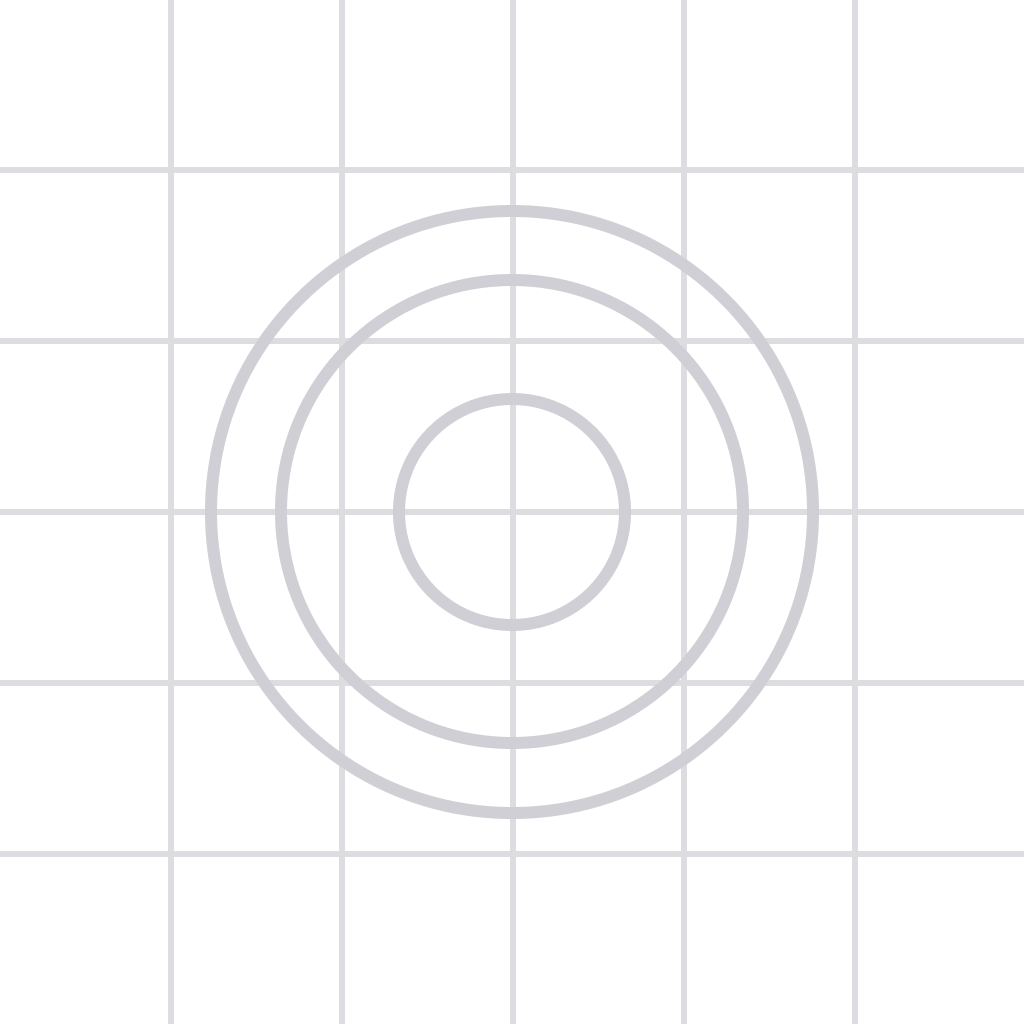
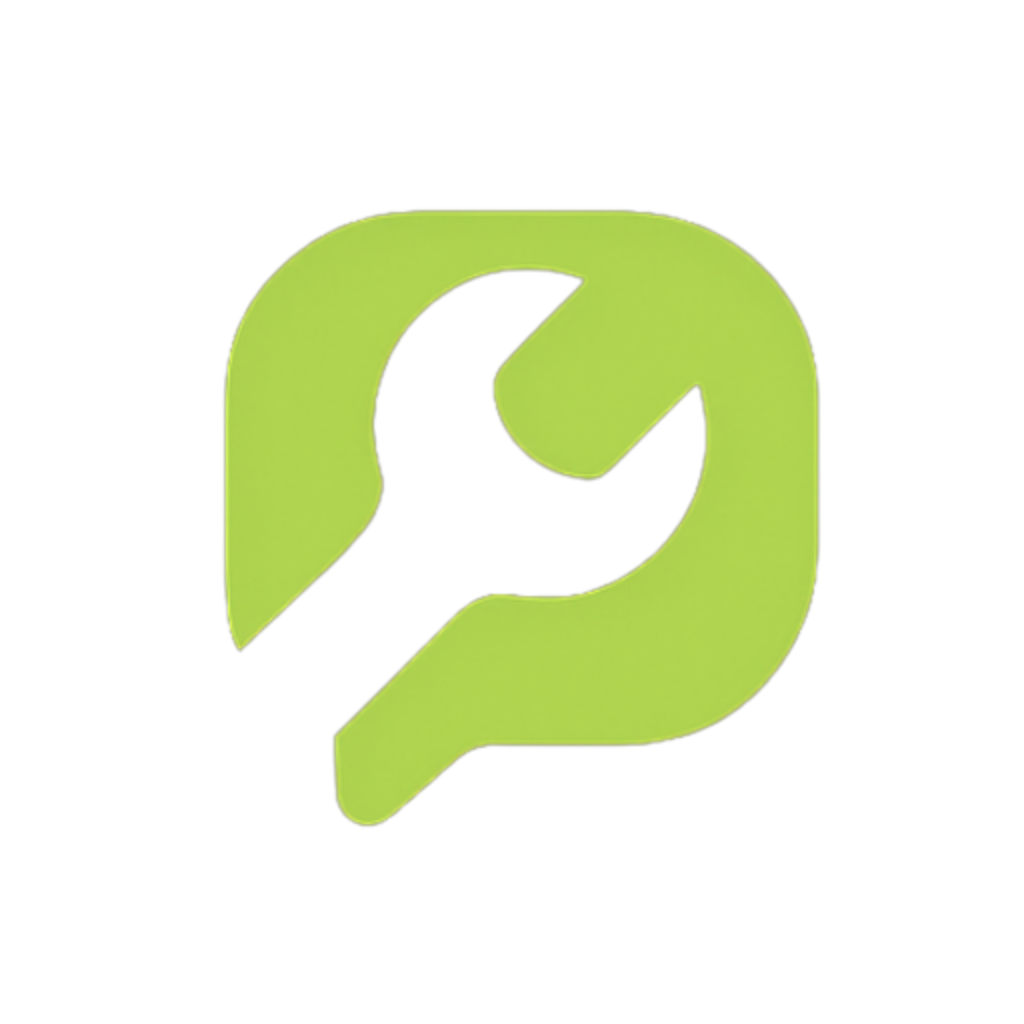
Fix Google Sign-In (Error 10) & Enhance UI with Animated Splash
- Validated Google Cloud Console configuration (Support Email was missing)
- Confirmed correct SHA-1 fingerprint for EAS preview builds
- Added detailed troubleshooting guide in GOOGLE_SIGNIN_ROZWIAZANIE.md
- Implemented new AnimatedSplash component in RootLayout
- Updated app icons and splash screen configuration in app.json

This resolves the Google Sign-In 'DEVELOPER_ERROR' (code 10) by ensuring cloud configuration matches the app signature.

Changed region(s): [[0.0, 0.0, 1.0, 1.0], [0.4062, 0.4062, 0.4375, 0.4375]]

diff --git a/components/AnimatedSplash.tsx b/components/AnimatedSplash.tsx
@@ -1,0 +1,93 @@
+import * as SplashScreen from 'expo-splash-screen';
+import React, { useCallback, useEffect } from 'react';
+import { Image, StyleSheet, View } from 'react-native';
+import Animated, {
+  Easing,
+  runOnJS,
+  useAnimatedStyle,
+  useSharedValue,
+  withDelay,
+  withSequence,
+  withTiming,
+} from 'react-native-reanimated';
+
+// Prevent native splash from auto-hiding
+SplashScreen.preventAutoHideAsync();
+
+interface AnimatedSplashProps {
+  isReady: boolean;
+  onAnimationComplete: () => void;
+}
+
+export function AnimatedSplash({ isReady, onAnimationComplete }: AnimatedSplashProps) {
+  const scale = useSharedValue(0.3);
+  const opacity = useSharedValue(0);
+  const fadeOut = useSharedValue(1);
+
+  const handleAnimationDone = useCallback(() => {
+    onAnimationComplete();
+  }, [onAnimationComplete]);
+
+  useEffect(() => {
+    if (!isReady) return;
+
+    // Hide native splash as soon as JS is ready - our animated splash takes over
+    SplashScreen.hideAsync();
+
+    // Start the wordmark animation:
+    // 1. Fade in + scale from 0.3 to 1.0 (800ms)
+    // 2. Hold for 400ms
+    // 3. Fade out (300ms)
+    opacity.value = withTiming(1, { duration: 300, easing: Easing.out(Easing.quad) });
+
+    scale.value = withTiming(1, {
+      duration: 800,
+      easing: Easing.out(Easing.back(1.2)),
+    });
+
+    // After scale + hold, fade out and signal completion
+    fadeOut.value = withDelay(
+      1200,
+      withTiming(0, { duration: 300, easing: Easing.in(Easing.quad) }, (finished) => {
+        if (finished) {
+          runOnJS(handleAnimationDone)();
+        }
+      })
+    );
+  }, [isReady]);
+
+  const animatedStyle = useAnimatedStyle(() => ({
+    transform: [{ scale: scale.value }],
+    opacity: opacity.value * fadeOut.value,
+  }));
+
+  return (
+    <View style={styles.container}>
+      <Animated.View style={[styles.imageContainer, animatedStyle]}>
+        <Image
+          source={require('../assets/images/wordmark.png')}
+          style={styles.wordmark}
+          resizeMode="contain"
+        />
+      </Animated.View>
+    </View>
+  );
+}
+
+const styles = StyleSheet.create({
+  container: {
+    ...StyleSheet.absoluteFillObject,
+    backgroundColor: '#000000',
+    justifyContent: 'center',
+    alignItems: 'center',
+    zIndex: 999,
+  },
+  imageContainer: {
+    justifyContent: 'center',
+    alignItems: 'center',
+  },
+  wordmark: {
+    width: 280,
+    height: 80,
+  },
+});

diff --git a/app/_layout.tsx b/app/_layout.tsx
@@ -1,3 +1,4 @@
+import { AnimatedSplash } from "@/components/AnimatedSplash";
 import { ErrorBoundary } from "@/components/ErrorBoundary";
 import { UserMenu } from "@/components/UserMenu";
 import { AppProvider } from "@/context/AppContext";
@@ -5,13 +6,14 @@ import { auth, db } from "@/services/firebase";
 import { Stack, usePathname, useRouter } from "expo-router";
 import { onAuthStateChanged } from "firebase/auth";
 import { doc, getDoc } from "firebase/firestore";
-import React, { useEffect, useRef, useState } from "react";
-import { ActivityIndicator, View } from "react-native";
+import React, { useCallback, useEffect, useRef, useState } from "react";
+import { View } from "react-native";
 
 export default function RootLayout() {
   const router = useRouter();
   const pathname = usePathname();
   const [isLoading, setIsLoading] = useState(true);
+  const [showSplash, setShowSplash] = useState(true);
   const [isMounted, setIsMounted] = useState(false);
   const navigationTimeoutRef = useRef<NodeJS.Timeout | null>(null);
 
@@ -98,10 +100,18 @@ export default function RootLayout() {
     return () => unsub();
   }, [pathname, router, isMounted]);
 
-  if (isLoading) {
+  const handleSplashComplete = useCallback(() => {
+    setShowSplash(false);
+  }, []);
+
+  // Show animated splash while loading auth state
+  if (showSplash) {
     return (
-      <View style={{ flex: 1, justifyContent: "center", alignItems: "center", backgroundColor: "#0f172a" }}>
-        <ActivityIndicator color="#38bdf8" />
+      <View style={{ flex: 1, backgroundColor: '#000000' }}>
+        <AnimatedSplash
+          isReady={!isLoading}
+          onAnimationComplete={handleSplashComplete}
+        />
       </View>
     );
   }

diff --git a/GOOGLE_SIGNIN_ROZWIAZANIE.md b/GOOGLE_SIGNIN_ROZWIAZANIE.md
@@ -1,0 +1,238 @@
+# Google Sign-In - Rozwiązanie problemu DEVELOPER_ERROR code 10
+
+## 📋 Podsumowanie problemu
+
+**Główny błąd:** `DEVELOPER_ERROR code 10` przy próbie logowania przez Google Sign-In w aplikacji React Native (Expo) z Firebase Authentication.
+
+**Objawy:**
+- Okno wyboru konta Google otwierało się, ale po wybraniu konta zamykało się bez rejestracji
+- Później nawet okno wyboru konta przestało się otwierać
+- Rejestracja email/password działała poprawnie
+- Logi pokazywały: `[GoogleSignIn] Error code: 10` oraz `[GoogleSignIn] Error: DEVELOPER_ERROR`
+
+---
+
+## 🔍 Proces debugowania
+
+### 1. Sprawdzenie podstawowej konfiguracji
+- ✅ Firebase Authentication - Google provider włączony
+- ✅ `webClientId` w kodzie poprawny (typ Web, nie Android)
+- ✅ Package name: `com.brainiac.repairmate` 
+- ✅ Plugin `@react-native-google-signin/google-signin` dodany do `app.json`
+
+### 2. Weryfikacja SHA-1 fingerprints
+**Problem:** SHA-1 z keystore nie był zsynchronizowany między:
+- EAS Credentials (Expo)
+- Firebase Console
+- Google Cloud Console
+- Plik `google-services.json` w projekcie
+
+**Odkrycie:**
+```bash
+eas credentials
+```
+Pokazywało: `SHA1 Fingerprint: 5D:C7:C7:14:D3:C6:75:43:41:7B:52:98:96:4E:BB:83:E9:2F:1F:20`
+
+Ten SHA-1 musiał być dodany do:
+1. Firebase Console → Project Settings → Your apps → Android app → SHA certificate fingerprints
+2. Google Cloud Console automatycznie tworzy Android OAuth Client z tym SHA-1
+3. Pobranie zaktualizowanego `google-services.json` z Firebase Console
+
+### 3. Poprawki w kodzie
+
+#### a) `services/firebase.ts`
+**Problem:** Lazy initialization z `Proxy` powodowała problemy z `AsyncStorage` persistence.
+
+**Rozwiązanie:** Bezpośrednia inicjalizacja
+```typescript
+const app = initializeApp(firebaseConfig);
+export const auth = initializeAuth(app, {
+  persistence: getReactNativePersistence(AsyncStorage),
+});
+export const db = getFirestore(app);
+```
+
+#### b) `components/AuthForm.tsx`
+**Problem 1:** Brak tworzenia dokumentu użytkownika w Firestore po Google Sign-In.
+
+**Rozwiązanie:** Dodanie logiki tworzenia/aktualizacji dokumentu po `signInWithCredential`.
+
+**Problem 2:** Niepoprawna struktura danych z `GoogleSignin.signIn()`.
+
+**Rozwiązanie:** Zmiana z `userInfo.idToken` na `response.data.idToken`
+```typescript
+const response = await GoogleSignin.signIn();
+if (!response || response.type !== 'success') {
+  throw new Error(`Google Sign-In failed with type: ${response?.type || 'undefined'}`);
+}
+const userInfo = response.data;
+const credential = GoogleAuthProvider.credential(userInfo.idToken);
+```
+
+**Problem 3:** Brak `scopes` w konfiguracji.
+
+**Rozwiązanie:** Dodanie scopes do `GoogleSignin.configure()`
+```typescript
+GoogleSignin.configure({
+  webClientId: '432126526994-qf7v8bthqohpvik7s51utjd7io8jin3m.apps.googleusercontent.com',
+  offlineAccess: false,
+  scopes: ['profile', 'email'],
+});
+```
+
+### 4. Konfiguracja Google Cloud Console
+
+#### OAuth Consent Screen
+- **Publishing status:** Testing (nie Production!)
+- **Test users:** Dodanie emaili użytkowników testowych (np. `[email redacted]`)
+
+#### APIs włączone
+- ✅ Google+ API (`https://console.cloud.google.com/apis/library/plus.googleapis.com`)
+- ✅ Identity Toolkit API (automatycznie dla Firebase)
+
+#### OAuth 2.0 Client IDs
+Wymagane **OBA** typy:
+1. **Web Application** - webClientId używany w kodzie
+2. **Android** - z SHA-1 fingerprint z keystore
+
+---
+
+## ✅ OSTATECZNE ROZWIĄZANIE
+
+### Co było głównym problemem?
+
+**EAS Credentials generowało nowe SHA-1 przy każdym buildzie**, które nie było nigdzie zarejestrowane!
+
+### Rozwiązanie krok po kroku:
+
+1. **Sprawdzenie aktualnego SHA-1 w EAS:**
+   ```bash
+   eas credentials
+   ```
+   Wybierz: Android → Keystore → View details
+
+2. **Dodanie SHA-1 do Firebase Console:**
+   - Firebase Console → Project Settings → General
+   - Scroll down do "Your apps" → Android app
+   - Dodaj SHA-1 w sekcji "SHA certificate fingerprints"
+
+3. **Weryfikacja w Google Cloud Console:**
+   - https://console.cloud.google.com/apis/credentials
+   - Sprawdź czy pojawił się nowy Android OAuth Client z tym SHA-1
+
+4. **Pobranie zaktualizowanego `google-services.json`:**
+   - Firebase Console → Project Settings → General
+   - W sekcji Android app kliknij "Download google-services.json"
+   - **WAŻNE:** Nadpisz stary plik w projekcie!
+
+5. **Commit zmian i nowy build:**
+   ```bash
+   git add google-services.json
+   git commit -m "Update google-services.json with correct SHA-1"
+   eas build --platform android --profile preview --clear-cache
+   ```
+
+6. **Instalacja i test:**
+   - Zainstaluj nowy APK
+   - Test Google Sign-In
+
+---
+
+## 📝 Pliki zmodyfikowane w projekcie
+
+### Commity w kolejności:
+1. `a35870f` - Fix AsyncStorage persistence
+2. `eb107ec` - Fix auth flow with Firestore document creation
+3. `710a601` - Add detailed logging for debugging
+4. `31a487f` - Add Google Sign-In plugin to app.json
+5. `564b2f1` - Fix Google Sign-In response data structure
+6. `a6800fc` - Update google-services.json with keystore SHA-1
+7. `5615348` - Add scopes to GoogleSignin configuration
+
+### Kluczowe pliki:
+- `services/firebase.ts` - Inicjalizacja Firebase
+- `components/AuthForm.tsx` - Google Sign-In logic
+- `app/_layout.tsx` - Routing po autentykacji
+- `google-services.json` - Konfiguracja Firebase dla Androida
+- `app.json` - Plugin Expo
+
+---
+
+## 🎯 Najważniejsze wnioski
+
+### 1. `DEVELOPER_ERROR code 10` zawsze oznacza:
+Problem z synchronizacją SHA-1 fingerprints między:
+- Keystore aplikacji
+- Firebase Console
+- Google Cloud Console
+- Plik `google-services.json`
+
+### 2. EAS Build i SHA-1:
+- EAS zarządza keystore automatycznie
+- SHA-1 może się zmieniać między buildami (jeśli nie ma stałego keystore)
+- **ZAWSZE** sprawdzaj `eas credentials` aby zobaczyć aktualny SHA-1
+
+### 3. `google-services.json` nie jest statyczny:
+- Po dodaniu SHA-1 w Firebase, plik się zmienia
+- Trzeba go pobrać na nowo i commitować
+- Build bez zaktualizowanego pliku będzie rzucał `DEVELOPER_ERROR code 10`
+
+### 4. Wymagania dla Google Sign-In:
+- **OBA** OAuth Clients: Web + Android
+- `webClientId` w kodzie musi być typu Web (client_type: 3)
+- Android client musi mieć SHA-1 z keystore
+- OAuth Consent Screen w trybie "Testing" z dodanymi test users
+- Włączone Google+ API w Google Cloud Console
+
+### 5. Debugowanie:
+```bash
+# Sprawdź aktualny SHA-1
+eas credentials
+
+# Zbuduj z czystym cache
+eas build --platform android --profile preview --clear-cache
+
+# Sprawdź logi w czasie rzeczywistym
+# (w aplikacji używamy console.log z prefiksem [GoogleSignIn])
+```
+
+---
+
+## 🔧 Narzędzia diagnostyczne
+
+### Configuration Doctor (wymaga subskrypcji $89):
+```bash
+npx @react-native-google-signin/config-doctor
+```
+
+### Alternatywa - manualne sprawdzenie:
+1. Porównaj SHA-1 z `eas credentials` vs `google-services.json`
+2. Sprawdź czy Web Client ID w kodzie = client_type 3 w `google-services.json`
+3. Sprawdź czy package name w `app.json` = package name w Firebase
+4. Sprawdź logi dla dokładnych błędów
+
+---
+
+## 📚 Przydatne linki
+
+- [Troubleshooting DEVELOPER_ERROR](https://react-native-google-signin.github.io/docs/troubleshooting)
+- [StackOverflow: DEVELOPER_ERROR solutions](https://stackoverflow.com/questions/56093020/developer-error-error-code-10-firebase-google-login-in-react-native)
+- [Firebase Console](https://console.firebase.google.com/)
+- [Google Cloud Console - Credentials](https://console.cloud.google.com/apis/credentials)
+
+---
+
+## ✨ Status: ROZWIĄZANE
+
+**Data rozwiązania:** 4 lutego 2026
+
+**Ostateczna przyczyna:** EAS wygenerował nowe SHA-1 które nie było dodane do Firebase Console i Google Cloud Console.
+
+**Co naprawiło problem:** 
+1. Dodanie aktualnego SHA-1 z `eas credentials` do Firebase
+2. Pobranie nowego `google-services.json`
+3. Nowy build z `--clear-cache`
+
+---
+
+_Plik stworzony jako dokumentacja procesu debugowania Google Sign-In w MendWise._